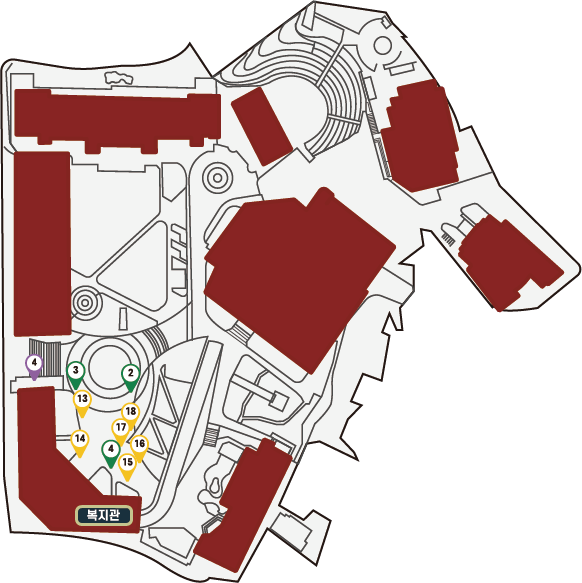
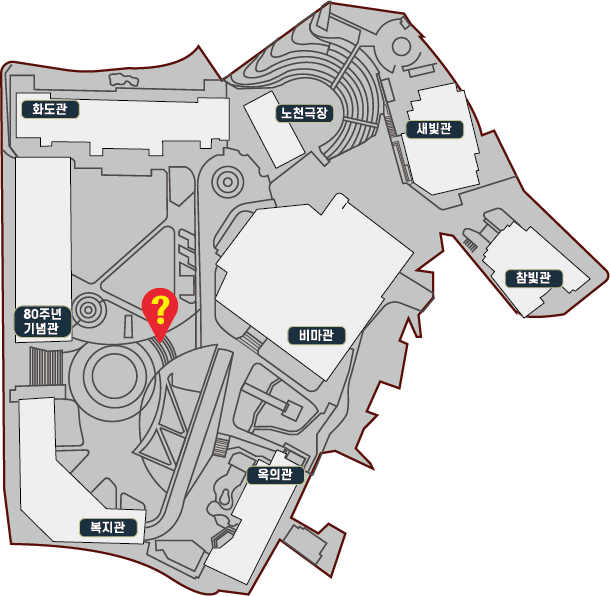
finish

diff --git a/index26.html b/index26.html
@@ -8,15 +8,16 @@
 </head>
 
 <body>
-  <div class="text-container" style="margin-top: 15%;">
+  <div class="text-container" style="margin-top: 10%;">
     <h3>
       "제가 이 말씀을 사람들에게<br>
       전파하겠습니다."<br><br>
-      "저희가 너무 어리석었습니다"<br>
+      "저희가 너무 어리석었습니다."<br>
     </h3>
     <img src="image/run.png" class="img_responsive" style="width: 50%; height: 50%;">
     <h3>
-      <span style="font-size: 90%;">곧장 사람들에게 달려가 비마의 뜻을 전했고,<br><br></span>
+      곧장 사람들에게 달려가,<br>
+      비마의 뜻을 전했고<br><br>
       점차 서로의 의견을 나누며<br>
       사람들은 진정하기 시작했다.
     </h3>

diff --git a/index12.html b/index12.html
@@ -8,14 +8,14 @@
 </head>
 
 <body>
-  <div class="text-container" style="margin-top: 25%;">
+  <div class="text-container" style="margin-top: 30%;">
     <h4>
       자전거 대여장 앞에 <span class="red-text">연촌의 지도</span>가 있다.
     </h4>
     <img src="image/map1.png" class="img_responsive">
     <h3>
-      빈칸을 넣어 지도를 완성시켜야<br>
-      한눈에 보기 쉬울 것 같다.
+      물음표 위치의 포스터를 참고하여<br>
+      다음 문제를 풀어 지도를 완성 해보자.
     </h3>
   </div>
 

diff --git a/index25.html b/index25.html
@@ -18,8 +18,8 @@
     <img src="image/team.png" class="img_responsive" style="width: 55%; height: 55%;">
     <h3>
       <span class="blue-text" style="font-size: 94%;">
-        "뜻을 모은다는 것이 본인의 뜻만 내세우면<br>
-        어찌 그것이 모이는 것이겠느냐.."<br><br>
+        "뜻을 모은다면서 본인의 뜻만 내세우면<br>
+        어찌 뜻을 모은다고 할 수 있겠느냐.."<br><br>
       </span>
       그 말을 들은 나는 부끄러워<br>
       아무 것도 할 수 없었다...

diff --git a/index16.html b/index16.html
@@ -14,7 +14,7 @@
       한 번 제대로 확인해볼까?
     </h4>
     <img src="image/map3.png" class="img_responsive">
-    <img src="image/rmt.png" class="img_responsive" style="margin-top: 10%">
+    <img src="image/rmt.png" class="img_responsive" style="margin-top: 5%">
     <h3>
       글씨가 잘못 써져있는 것 같다.<br>
       내가 해석해서 위치를 알려줘야겠다.

diff --git a/index27.html b/index27.html
@@ -11,7 +11,7 @@
   <div class="text-container" style="margin-top: 17%;">
     <h3>
       이들은 이를 기리기 위해 날개짓 하는<br>
-      비마의 모습으로 동상을 세우고,
+      비마 모습의 동상을 세웠다.
     </h3>
     <img src="image/statue.png" class="img_responsive" style="width: 100%; height: 100%;">
     <h3>

diff --git a/index28.html b/index28.html
@@ -27,7 +27,7 @@
       </p>
     </div>
     <h2>
-      기념관 201호 총학생회 부스로<br>
+      기념관 202호 총학부스로<br>
       이동하여 도장을 받자.
     </h2>
   </div>
